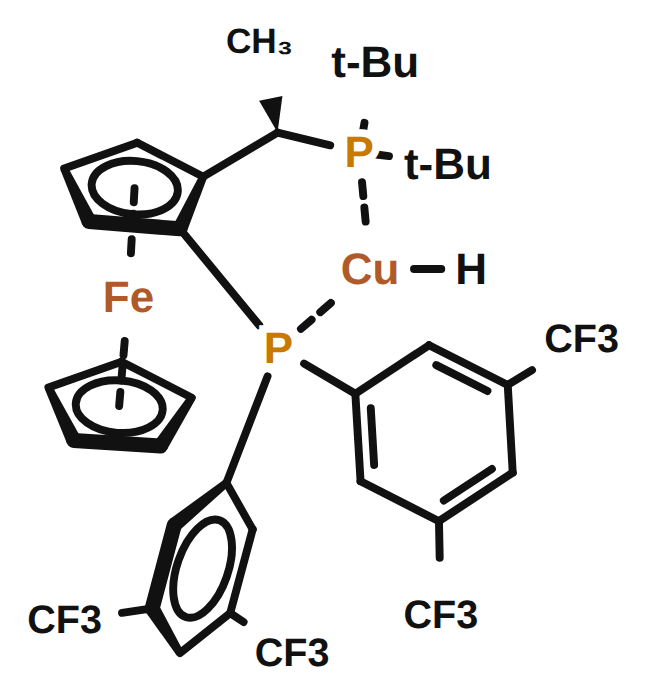
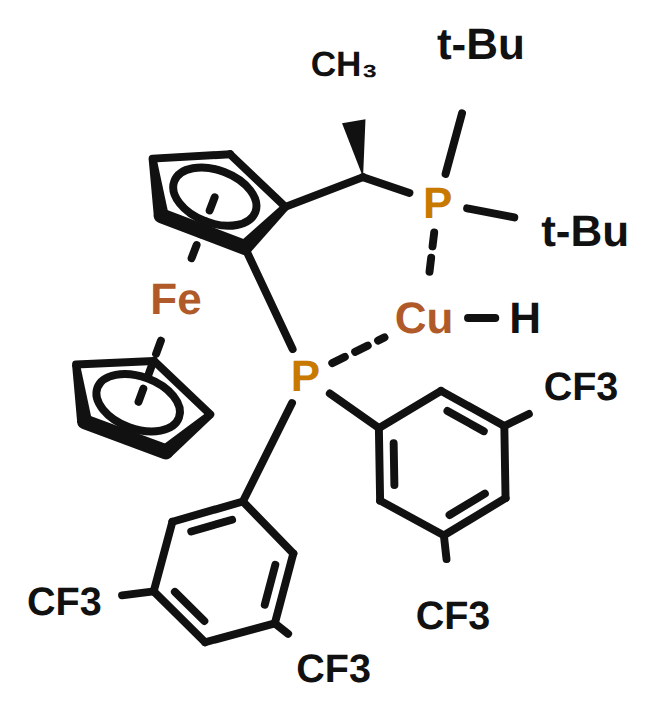
metaldepict: Josiphos aryls matched to Cp size, flat, spread; t-Bu/Me extended
method3_template.place_hexagon / seed_from_smiles._aryl_35 gain a ring scale.

gen_named SL-J011-1 (Josiphos):
  - bis-3,5-CF3 aryls shrunk to ~0.82 edge to MATCH the ferrocene Cp rings, and
    fanned wide (205 / 320 deg) so the two stay flat, the same size, and clear of
    each other -- built with the relief CLEAN-UP steps (swing/declutter/uncross)
    but WITHOUT the tilt, so neither aryl is foreshortened.
  - t-Bu angles re-tuned (65 / 0 deg) and pushed further OUT as a post-relax step
    (_push_labels_out -- the relaxer otherwise pulls every arm back to L); the
    stereocentre methyl likewise extended.  Result: crossings 0, overlap 1.

panels: named figures + cropped PNGs regenerated.

Claude-Session: https://claude.ai/code/session_01VEr4Hixwf6YDK6DNqMg3Gi

diff --git a/metaldepict/methods/gen_named.py b/metaldepict/methods/gen_named.py
@@ -87,13 +87,69 @@ def _quinoxp():
 
 def _slj011():
     # Josiphos SL-J011-2 motif: P(3,5-(CF3)2-C6H3)2 directly on Cp, CH(CH3)-PtBu2
-    # tether.  The two bis-3,5-CF3 aryls fan down; the two t-Bu fan up-and-right
-    # (well separated, away from Cu) and reach a little further out.
-    p1 = lambda s, pid: (S._aryl_35(s, pid, 200, "CF3"),
-                         S._aryl_35(s, pid, 268, "CF3"))
-    p2 = lambda s, pid: (S._arm(s, pid, 98, "t-Bu", length=1.5),
-                         S._arm(s, pid, 30, "t-Bu", length=1.5))
+    # tether.  Bis-3,5-CF3 aryls shrunk to ~0.82 to match the ferrocene Cp rings
+    # and fanned wide (down-left / down-right) so they do not collide; the two
+    # t-Bu fan up-and-right, away from Cu.
+    p1 = lambda s, pid: (S._aryl_35(s, pid, 205, "CF3", ring_scale=0.82),
+                         S._aryl_35(s, pid, 320, "CF3", ring_scale=0.82))
+    p2 = lambda s, pid: (S._arm(s, pid, 65, "t-Bu"),
+                         S._arm(s, pid, 0, "t-Bu"))
     return S.build_josiphos("SL-J011-1", psub_p1=p1, psub_p2=p2)
+
+
+def _push_labels_out(H, labels, factor):
+    """Push selected leaf labels (e.g. t-Bu) on each P donor further out along
+    their P-arm, AFTER relaxing (the relaxer pulls every bond back to L, so the
+    extension must be applied as a post-step to persist)."""
+    for p in H.donors:
+        px, py = H.pos[p]
+        for n in list(H.adj[p]):
+            if H.label.get(n) not in labels:
+                continue
+            comp, stack = {n}, [n]
+            while stack:
+                x = stack.pop()
+                for y in H.adj[x]:
+                    if y == p or y in comp:
+                        continue
+                    comp.add(y)
+                    stack.append(y)
+            dx = (H.pos[n][0] - px) * (factor - 1.0)
+            dy = (H.pos[n][1] - py) * (factor - 1.0)
+            for a in comp:
+                H.pos[a] = (H.pos[a][0] + dx, H.pos[a][1] + dy)
+
+
+def _extend_methyl(H, factor=1.3):
+    """Push the stereocentre CH3 (the wedged methyl) a little further out so the
+    stereo wedge reads clearly."""
+    for i, lbl in H.label.items():
+        if lbl and lbl.startswith("CH") and lbl != "Cu":
+            nb = [n for n in H.adj[i]]
+            if not nb:
+                continue
+            px, py = H.pos[nb[0]]
+            dx = (H.pos[i][0] - px) * (factor - 1.0)
+            dy = (H.pos[i][1] - py) * (factor - 1.0)
+            H.pos[i] = (H.pos[i][0] + dx, H.pos[i][1] + dy)
+
+
+def _slj011_H():
+    # build + relax + the relief CLEAN-UP steps (swing / settle / declutter /
+    # uncross) but WITHOUT the tilt, so both bis-CF3 aryls stay flat and the same
+    # size as each other and the Cp rings.
+    sc, title, meta = _slj011()
+    H = R.Harness(scene=sc, title=title,
+                  exempt=meta["exempt"], extra_rigid=meta["extra_rigid"])
+    G.apply_recipe(H, {"weights": dict(G.GLOBAL)})
+    R.swing_off_backbone(H)
+    bodies, pin, inv, translate, _ = R.body_helpers(H)
+    R.overlap_relax(H, bodies, pin, inv, translate, w_over=0.5, iters=80)
+    R.declutter(H, angles=R.BIG_DECL, passes=2)
+    R.uncross(H)
+    _push_labels_out(H, {"t-Bu"}, 1.7)           # t-Bu further out
+    _extend_methyl(H, 1.3)
+    return H
 
 
 def named():
@@ -109,7 +165,7 @@ def named():
     out["(S,S)-QuinoxP*"] = _quinoxp()
     out["(R,R)-Me-DuPhos"] = _smiles_H(
         "C[C@@H]1CC[C@@H](C)[P]1c1ccccc1[P]1[C@H](C)CC[C@H]1C", "(R,R)-Me-DuPhos")
-    out["SL-J011-1"] = _frozen_H(_slj011, "SL-J011-1")
+    out["SL-J011-1"] = _slj011_H()
     out["DTBM-BINAP"] = _smiles_H(
         G.ligand_smiles(G.BACKBONES["binap"], G.SUBSTITUENTS["dtbm"]),
         "DTBM-BINAP")

diff --git a/metaldepict/methods/seed_from_smiles.py b/metaldepict/methods/seed_from_smiles.py
@@ -328,13 +328,14 @@ def _aryl_para(sc, pid, deg, para_label, kek=0):
     return ids
 
 
-def _aryl_35(sc, pid, deg, label, kek=0):
+def _aryl_35(sc, pid, deg, label, kek=0, ring_scale=1.0):
     """Place a phenyl ring on P carrying TWO meta (3,5) substituent labels --
-    e.g. a bis-3,5-(CF3)2-phenyl P-aryl."""
+    e.g. a bis-3,5-(CF3)2-phenyl P-aryl.  `ring_scale` shrinks the hexagon (the
+    P-aryl bond stays L) so the ring can be matched to a smaller reference ring."""
     p = sc.atoms[pid].pos
     ipso = polar(p, deg, L)
-    center = polar(ipso, deg, _MT.HEX_R)
-    ids = _MT.place_hexagon(sc, center, deg + 180.0, kek)
+    center = polar(ipso, deg, _MT.HEX_R * ring_scale)
+    ids = _MT.place_hexagon(sc, center, deg + 180.0, kek, scale=ring_scale)
     sc.bond(pid, ids[0], order=1)
     for m in (ids[2], ids[4]):                    # the two meta (3 and 5) carbons
         _MT.text_arm(sc, m, _MT.out_angle(sc, center, m), label,

diff --git a/metaldepict/methods/method3_template.py b/metaldepict/methods/method3_template.py
@@ -43,13 +43,13 @@ def vlen(a):
 
 
 # ------------------------------------------------------------------------------
-def place_hexagon(sc, center, vertex0_deg, kek_offset=0):
+def place_hexagon(sc, center, vertex0_deg, kek_offset=0, scale=1.0):
     """Place a benzene hexagon. vertex0 is at angle vertex0_deg from centre.
     Kekule doubles drawn inside; kek_offset (0/1) chooses which edges double.
-    Returns list of 6 vertex ids, CCW from vertex0."""
+    `scale` shrinks/grows the ring (edge = scale*L).  Returns 6 vertex ids."""
     ids = []
     for k in range(6):
-        ids.append(sc.atom(polar(center, vertex0_deg + k * 60.0, HEX_R)))
+        ids.append(sc.atom(polar(center, vertex0_deg + k * 60.0, HEX_R * scale)))
     kek = [2, 1, 2, 1, 2, 1] if kek_offset == 0 else [1, 2, 1, 2, 1, 2]
     for k in range(6):
         sc.bond(ids[k], ids[(k + 1) % 6], order=kek[k], inside=center)
